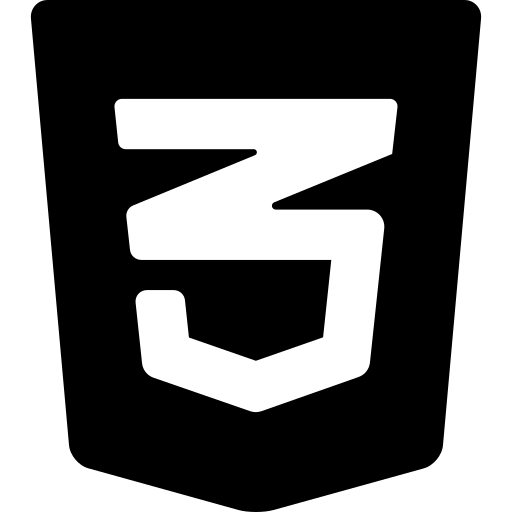
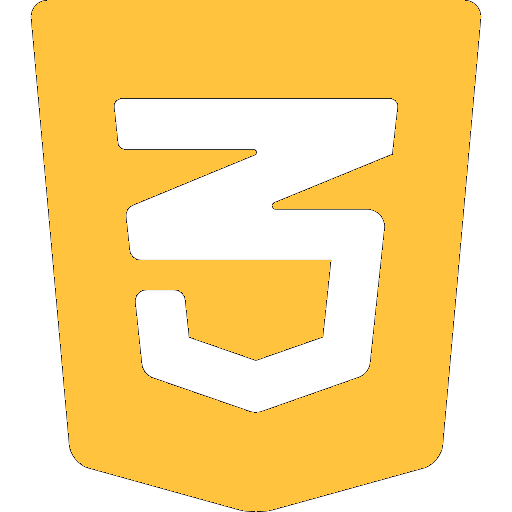
github added to contact
+ skill logos re-coloured

diff --git a/index.html b/index.html
@@ -5,10 +5,6 @@
     <meta charset="utf-8">
     <meta name="viewport" content="width=device-width, initial-scale=1, shrink-to-fit=no">
     
-    <script src="https://code.jquery.com/jquery-3.3.1.slim.min.js" integrity="sha384-q8i/X+965DzO0rT7abK41JStQIAqVgRVzpbzo5smXKp4YfRvH+8abtTE1Pi6jizo" crossorigin="anonymous"></script>
-    <script src="https://cdnjs.cloudflare.com/ajax/libs/popper.js/1.14.7/umd/popper.min.js" integrity="sha384-UO2eT0CpHqdSJQ6hJty5KVphtPhzWj9WO1clHTMGa3JDZwrnQq4sF86dIHNDz0W1" crossorigin="anonymous"></script>
-    <script src="https://stackpath.bootstrapcdn.com/bootstrap/4.3.1/js/bootstrap.min.js" integrity="sha384-JjSmVgyd0p3pXB1rRibZUAYoIIy6OrQ6VrjIEaFf/nJGzIxFDsf4x0xIM+B07jRM" crossorigin="anonymous"></script>
-    
     <link rel="stylesheet" href="https://use.fontawesome.com/releases/v5.2.0/css/all.css" integrity="sha384-hWVjflwFxL6sNzntih27bfxkr27PmbbK/iSvJ+a4+0owXq79v+lsFkW54bOGbiDQ" crossorigin="anonymous">
     
     <link rel="stylesheet" href="css/styles.css">
@@ -82,7 +78,7 @@ I have always had a spark for problem-solving, always finding maths and physics 
     </div>
     <div class="d-flex flex-column p-4 m-2 skillTile">
         <img src="images/js-file.png" class="mx-auto">
-        <h3>Javascript</h3>
+        <h3>JavaScript</h3>
     </div>
 </div>
         
@@ -228,24 +224,30 @@ I have always had a spark for problem-solving, always finding maths and physics 
     <span>
         <a href="tel:+447936326348">
             <img src="images/phone@2x.png" class="invert">
-            <p class="whitetext">+447936326348</p>
         </a>
     </span>
     <span>
         <a href="mailto:mjwarren96@yahoo.co.uk">
             <img src="images/envelope@2x.png" class="invert">
-            <p class="mail whitetext">mjwarren96@yahoo.co.uk</p>
         </a>
     </span>
     <span>
         <a href="https://www.linkedin.com/in/michael-warren-b03367176/">
             <img src="images/linked-in@2x.png" class="invert">
-            <p class="mail whitetext">Michael Warren</p>
+        </a>
+    </span>
+    <span>
+        <a href="https://github.com/MichaelWarr3n">
+            <img src="images/github@2x.png" class="invert">
         </a>
     </span>
 </div>
     
 </footer>
+
+<script src="https://code.jquery.com/jquery-3.3.1.slim.min.js" integrity="sha384-q8i/X+965DzO0rT7abK41JStQIAqVgRVzpbzo5smXKp4YfRvH+8abtTE1Pi6jizo" crossorigin="anonymous"></script>
+<script src="https://cdnjs.cloudflare.com/ajax/libs/popper.js/1.14.7/umd/popper.min.js" integrity="sha384-UO2eT0CpHqdSJQ6hJty5KVphtPhzWj9WO1clHTMGa3JDZwrnQq4sF86dIHNDz0W1" crossorigin="anonymous"></script>
+<script src="https://stackpath.bootstrapcdn.com/bootstrap/4.3.1/js/bootstrap.min.js" integrity="sha384-JjSmVgyd0p3pXB1rRibZUAYoIIy6OrQ6VrjIEaFf/nJGzIxFDsf4x0xIM+B07jRM" crossorigin="anonymous"></script>
 
 </body>
 

diff --git a/css/styles.css b/css/styles.css
@@ -78,6 +78,11 @@ div.skillTile img {
     height: auto;
 }
 
+div.skillTile img:hover {
+    position: relative;
+    bottom: 10px;
+}
+
 h3.contac {
     text-align: center;
 }
@@ -86,6 +91,7 @@ h3.contac {
     display: flex;
     justify-content: space-around;
     font-weight: 700;
+    padding-bottom: 20px;
 }
 
 .contact span a {
@@ -404,7 +410,7 @@ h3.contac {
     padding: 0 50px;
     margin: 52px 0 0;
     float: right;
-    position: relative
+    position: relative;
 }
 
 .main-timeline .timeline-content:before {
